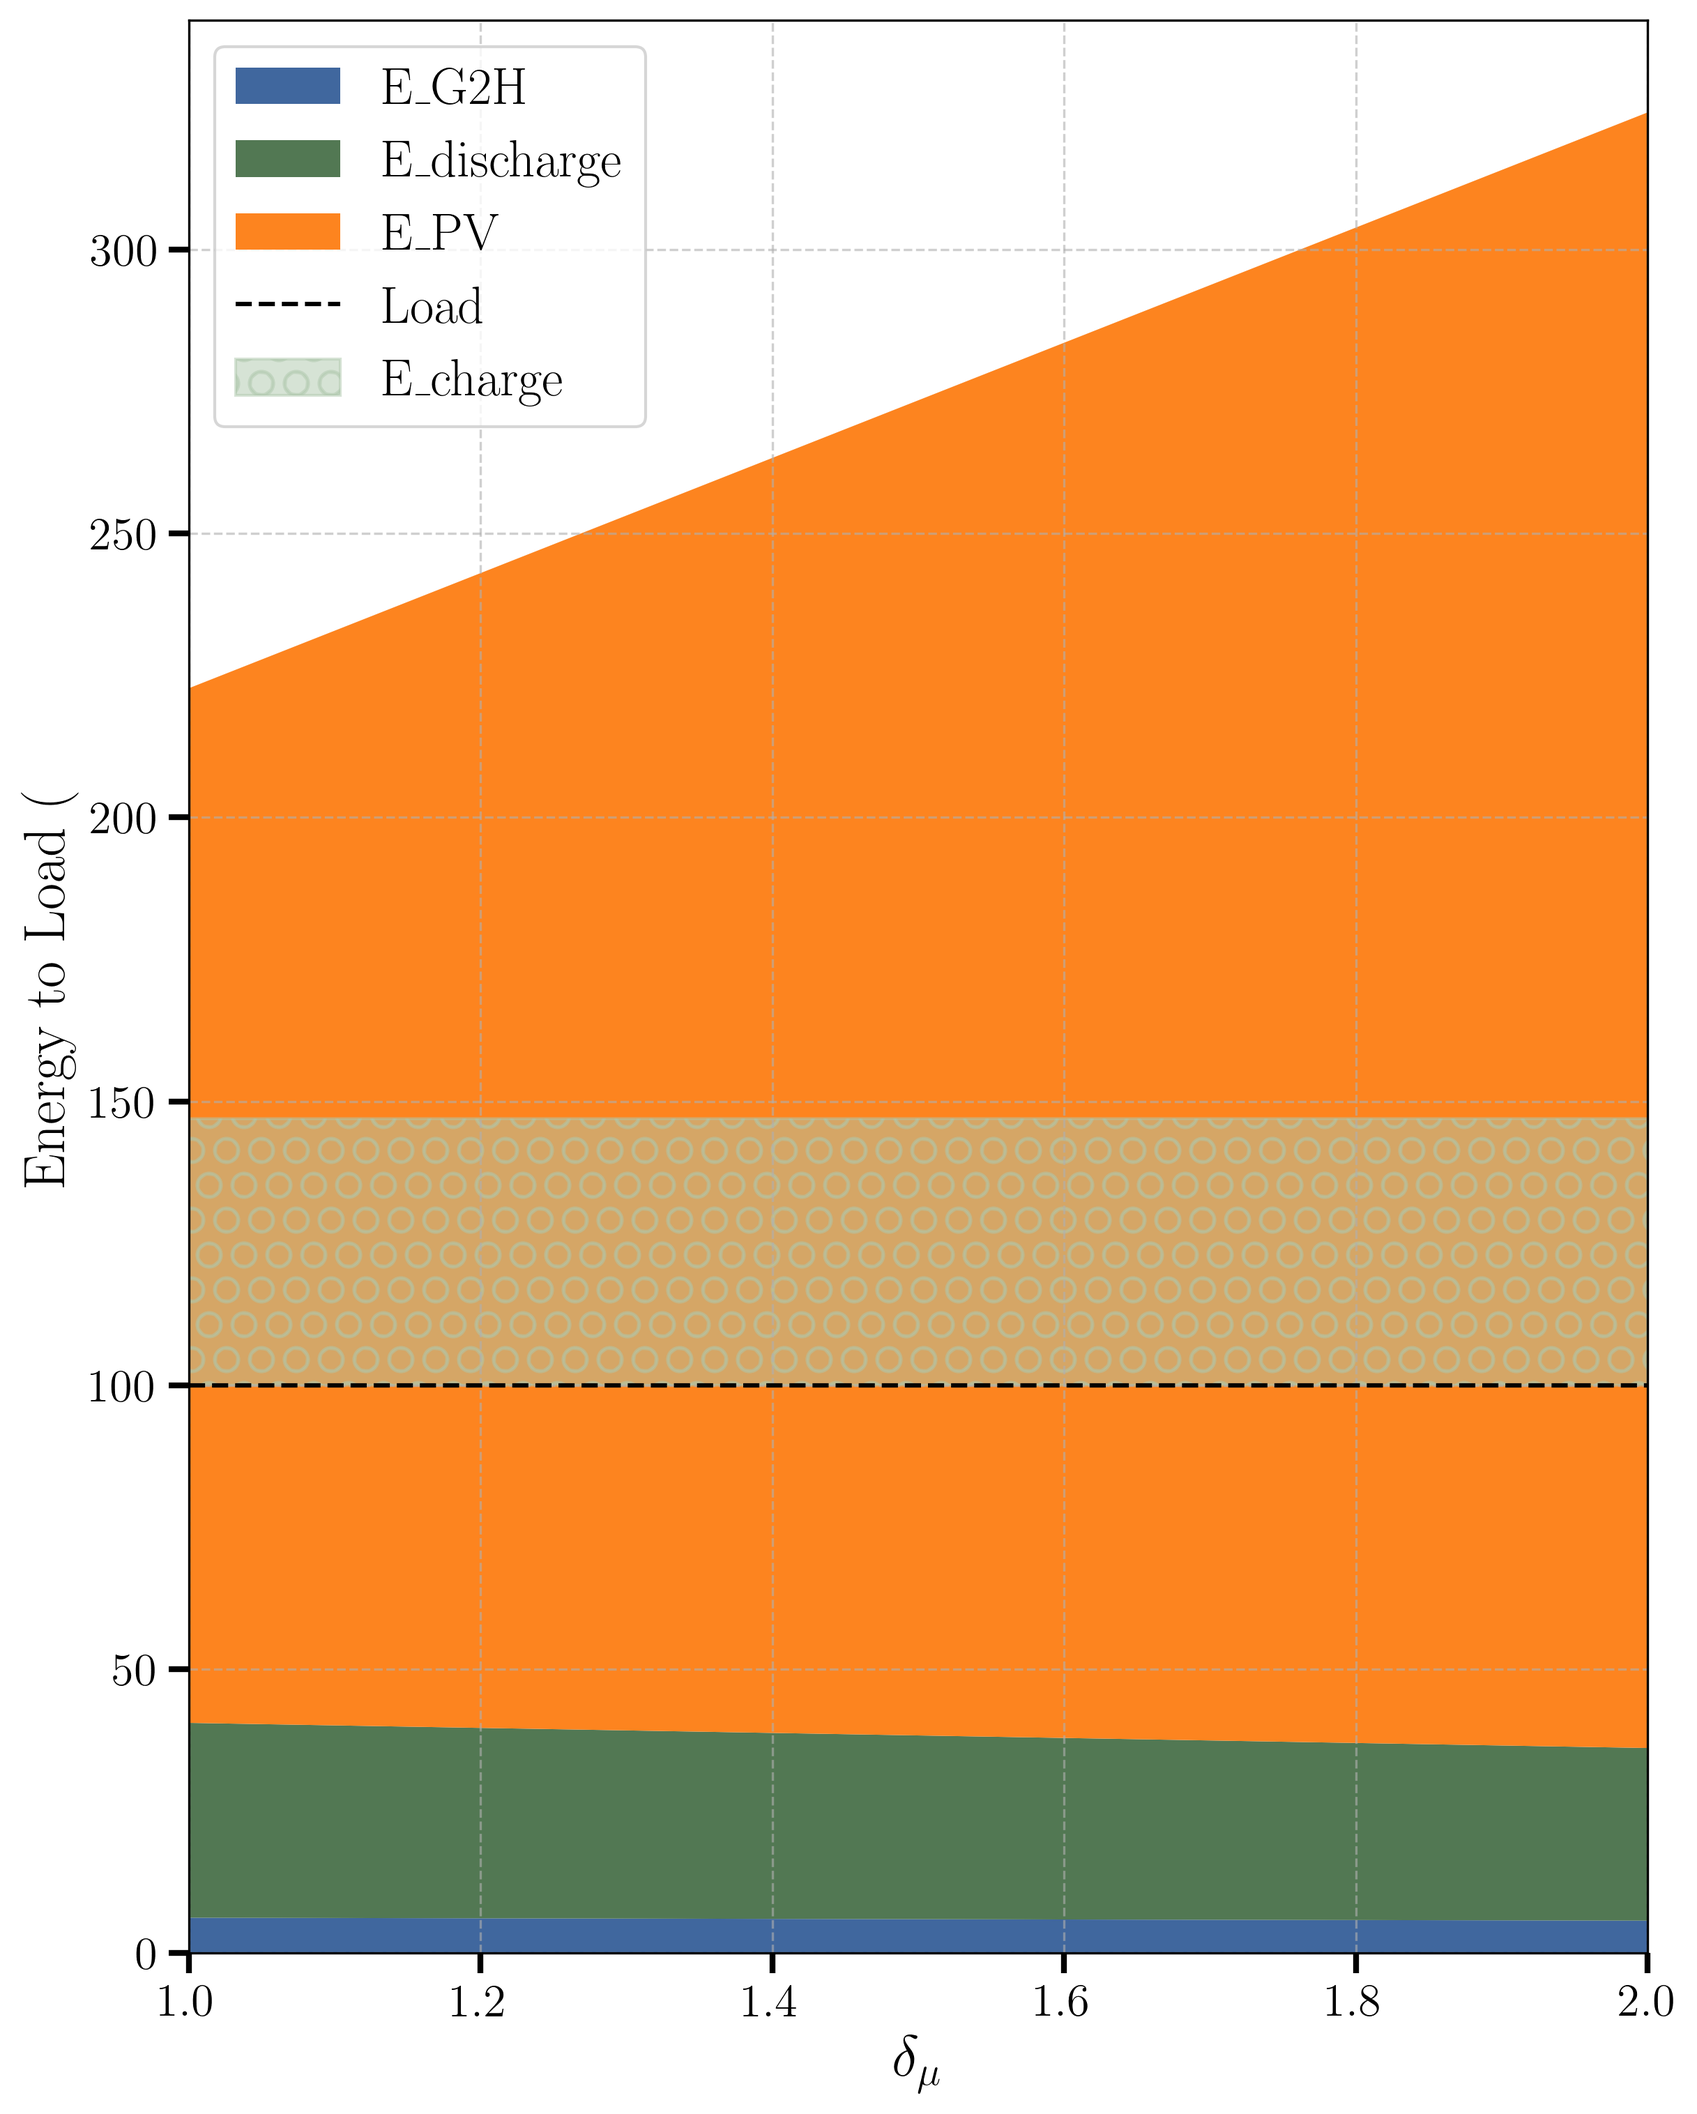
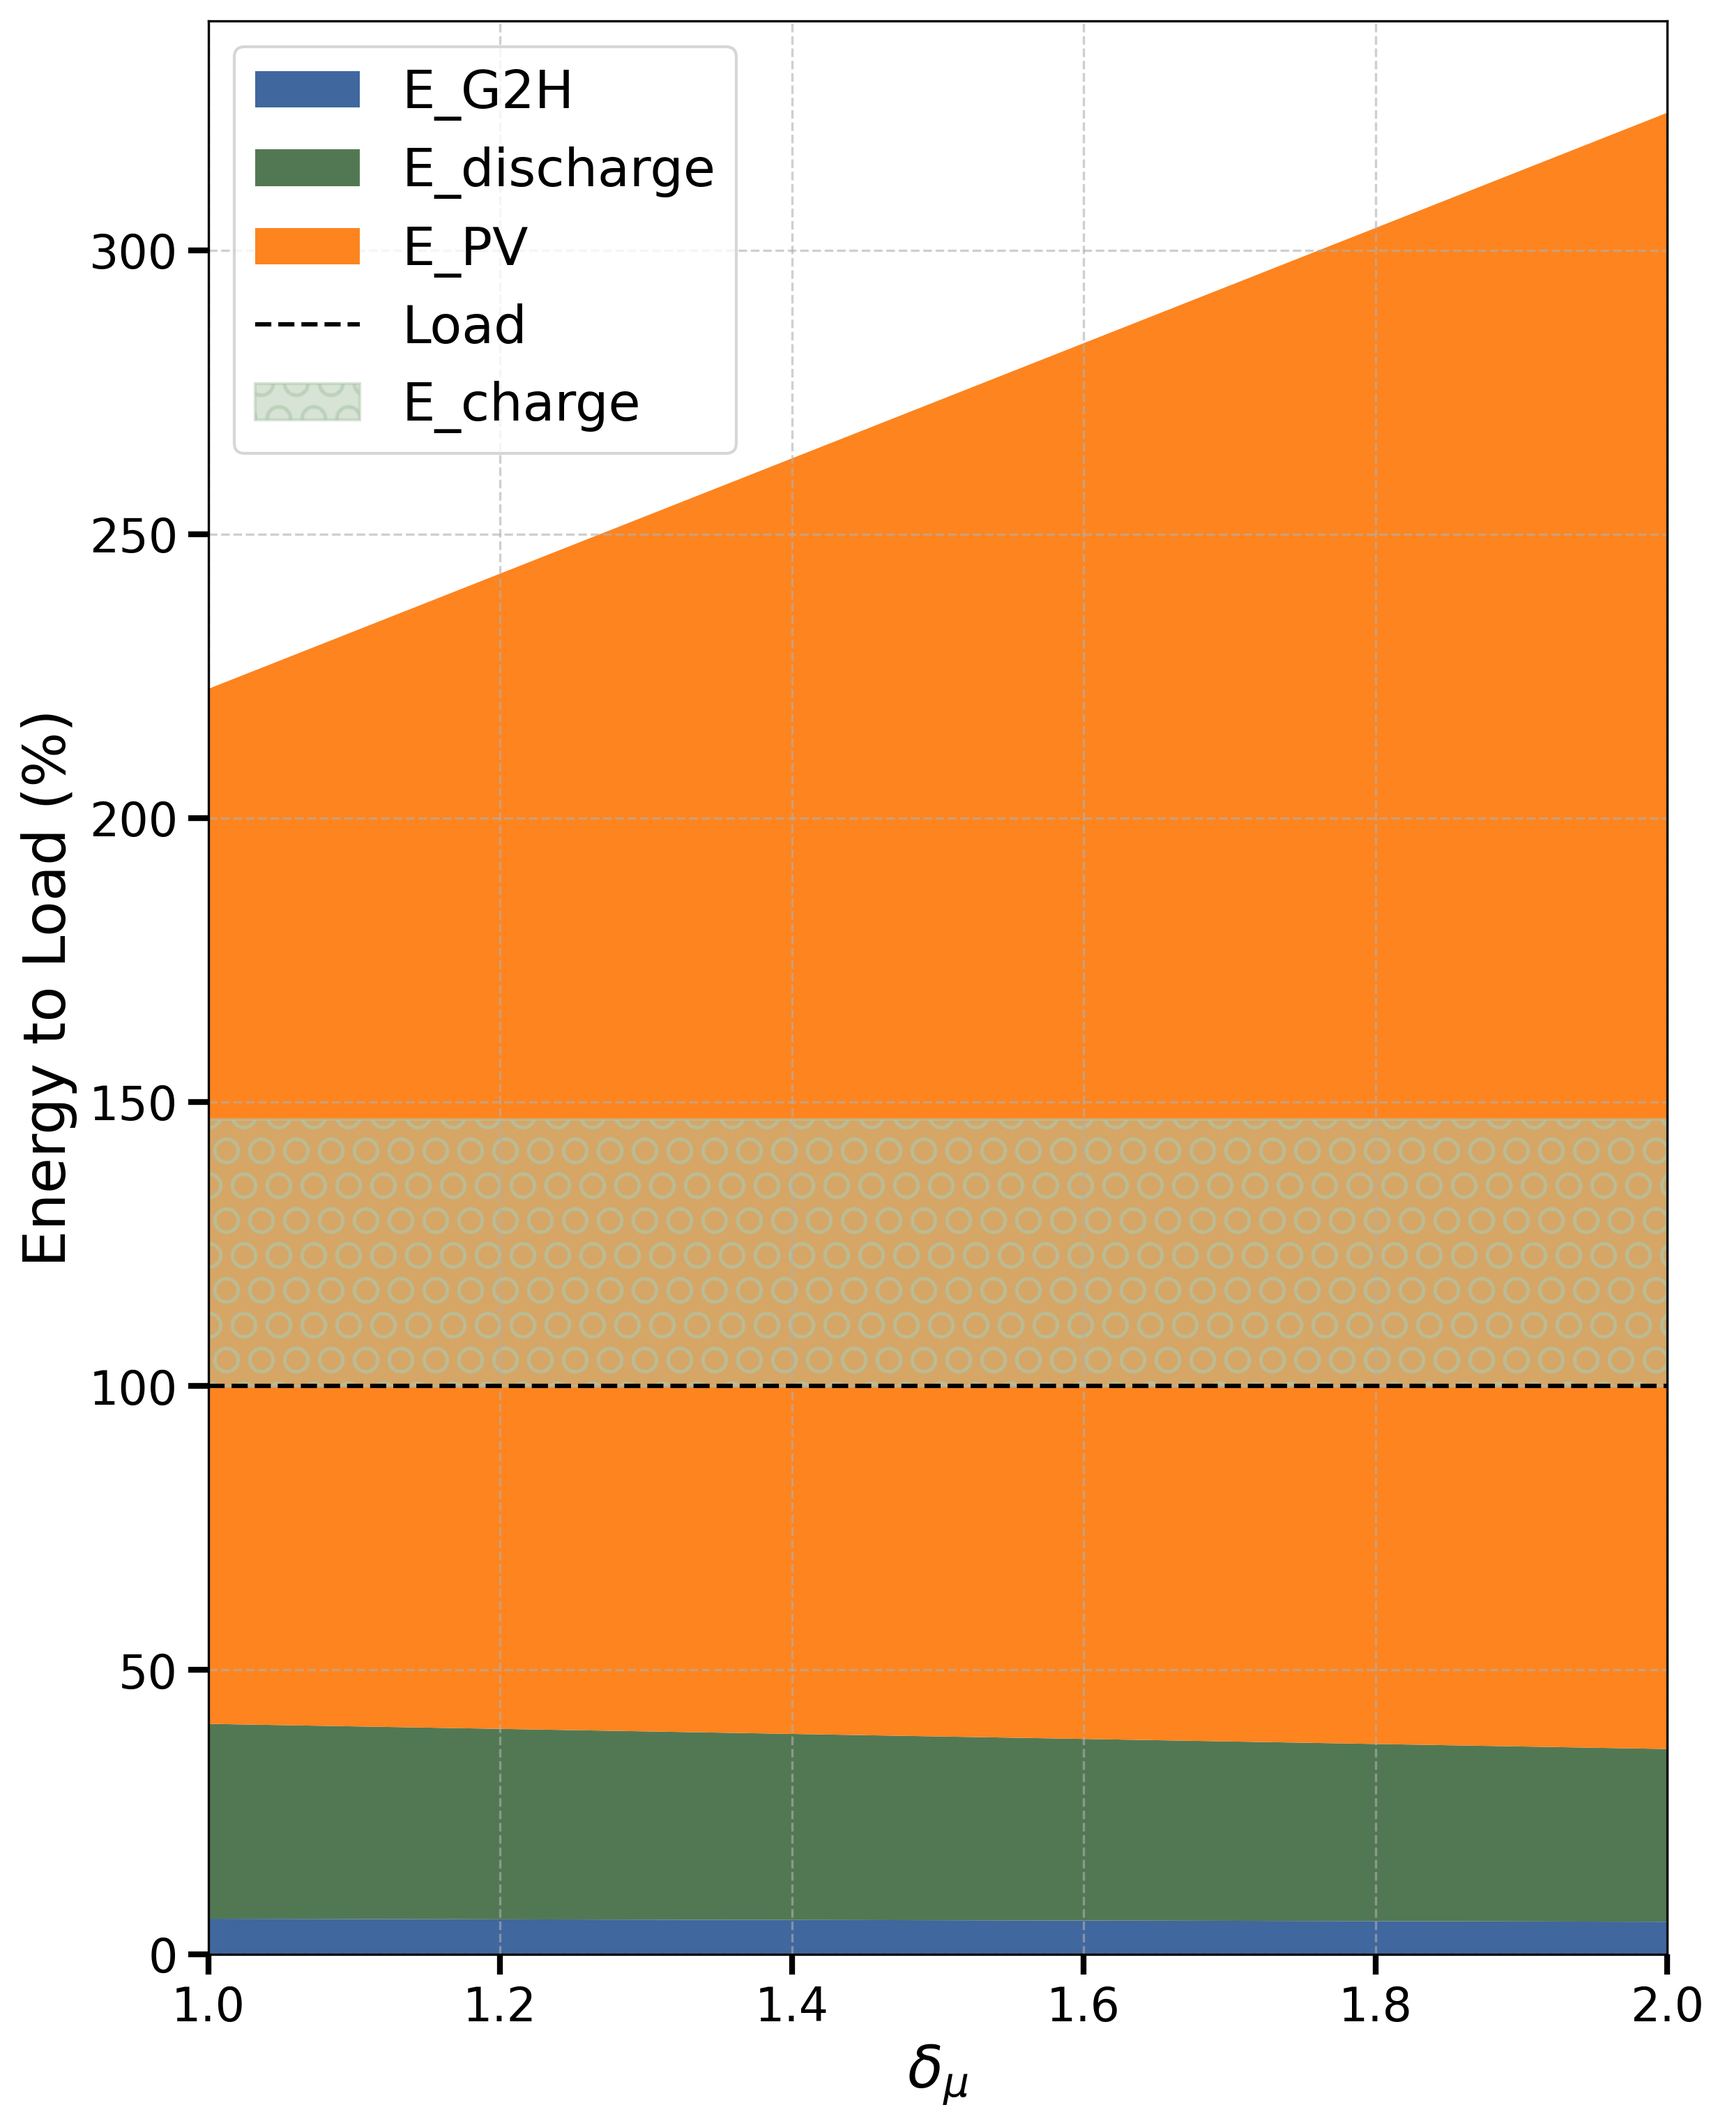
fixed small missmatch of fonts

diff --git a/series_plots.py b/series_plots.py
@@ -329,8 +329,8 @@ def plot_seasonal_stack(
         'xtick.labelsize': 16,
         'ytick.labelsize': 16,
         'legend.fontsize': 18,
-        'text.usetex': True,
-        'font.family': "DejaVu Sans"
+        # 'text.usetex': True,
+        # 'font.family': "DejaVu Sans"
     })
 
     # Use axhline for a clean horizontal line across the plot.
